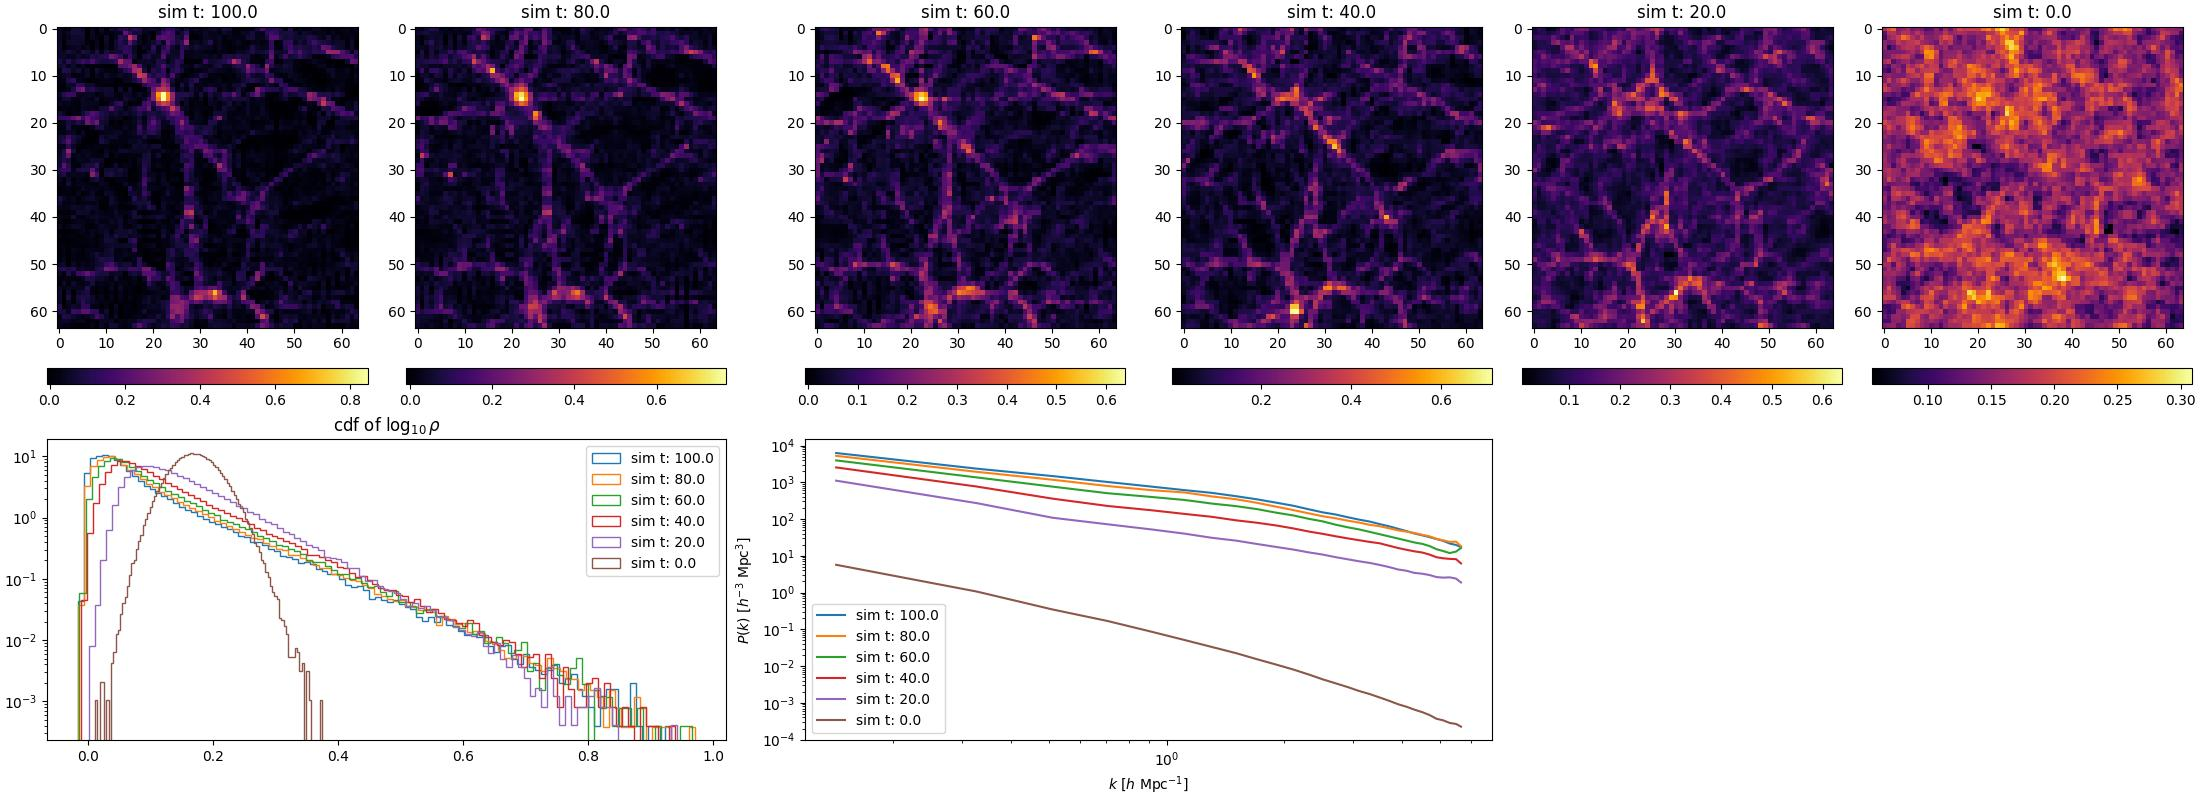
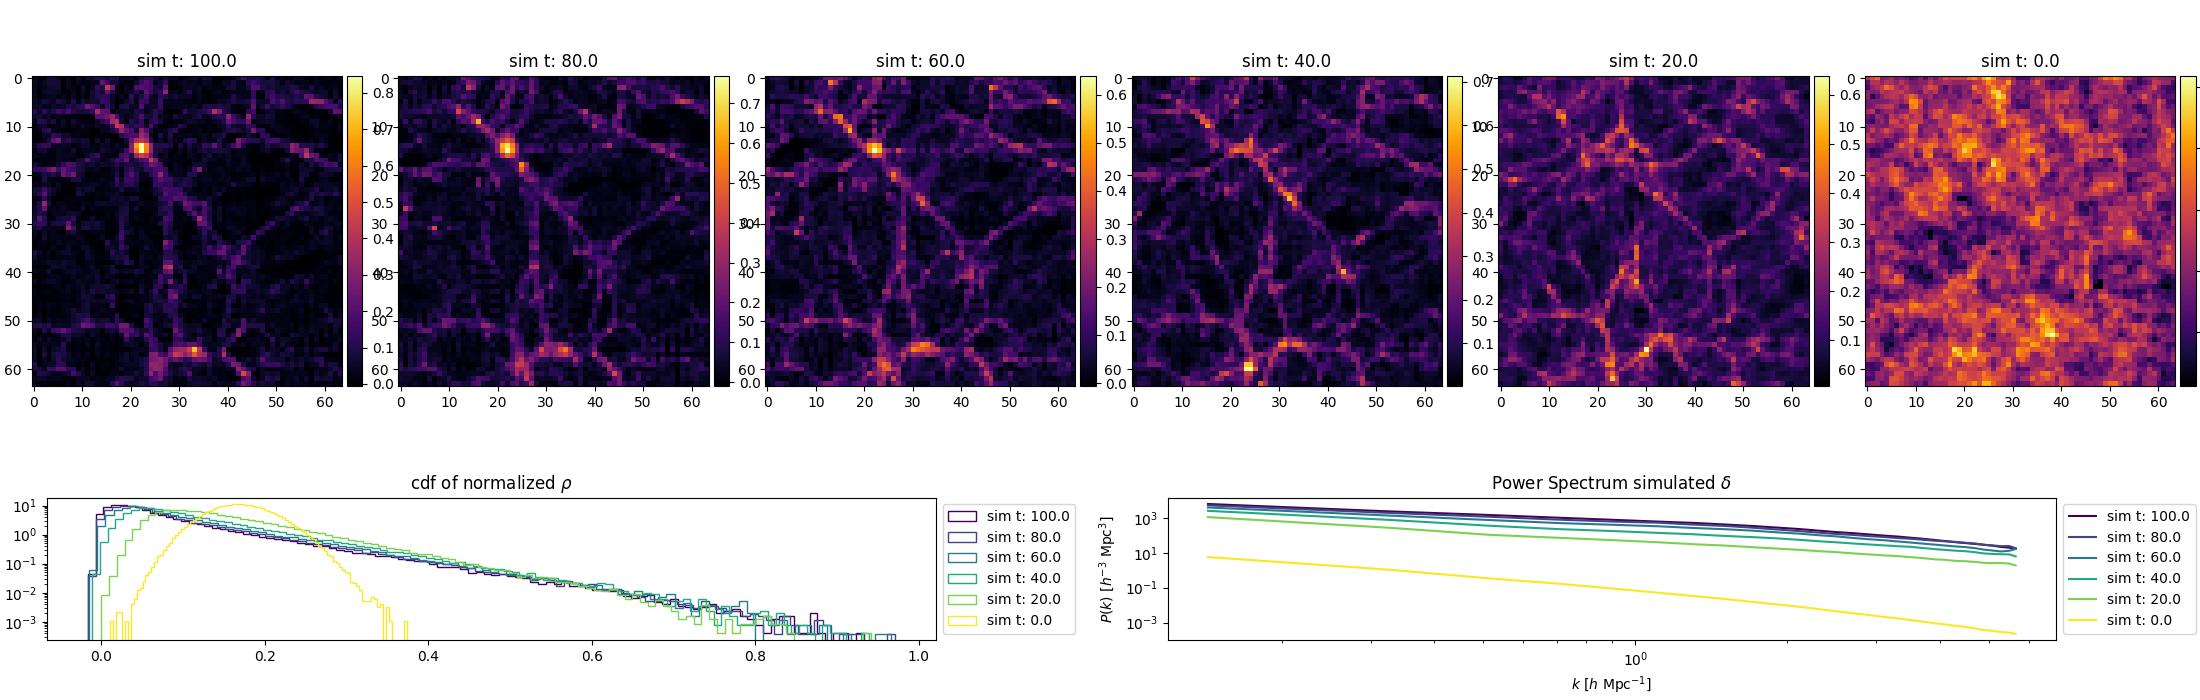
improved plot layouts

diff --git a/src/visualize/sequence.py b/src/visualize/sequence.py
@@ -7,94 +7,42 @@ from mpl_toolkits.axes_grid1 import make_axes_locatable
 from powerbox import PowerBox, get_power
 from data import normalize_inv
 from cosmos import compute_overdensity
+from matplotlib.cm import get_cmap
 
-def sequence_examine(
+def sequence(
         ouput_file : str,
         config : Config,
         sequence : jax.Array,
+        sequence_prediction : jax.Array | None,
         timeline : jax.Array,
         attributes : jax.Array):
     
     frames = sequence.shape[0]
     grid_size = sequence.shape[2]
 
-    # transform to shape for matplotlib
-    sequence = jnp.reshape(
-        sequence, (frames, grid_size, grid_size, grid_size, 1))
-
-
-    fig = plt.figure(figsize=(4+3*frames, 8), layout="constrained")
-    spec = fig.add_gridspec(2, frames)
-
-    ax_cdf = fig.add_subplot(spec[1, 0:2])
-    ax_power = fig.add_subplot(spec[1, 2:4])
-
-    for frame in range(frames):
-
-        min = attributes[frame, 0]
-        max = attributes[frame, 1]
-
-        min = jax.device_put(min, device=jax.devices("gpu")[0])
-        max = jax.device_put(max, device=jax.devices("gpu")[0])
-
-        rho_normalized = sequence[frame]
-        rho = normalize_inv(rho_normalized, min, max)
-
-        ax_seq = fig.add_subplot(spec[0, frame])
-        ax_seq.set_title(f"sim t: {timeline[frame]}")
-
-        im_seq = ax_seq.imshow(rho_normalized[grid_size // 2, : , :], cmap='inferno')
-        fig.colorbar(im_seq, ax=ax_seq, orientation='horizontal', location='bottom')
-
-        ax_cdf.hist(rho_normalized.flatten(), 100, density=True, log=True, histtype="step",
-                               cumulative=False, label=f"sim t: {timeline[frame]}")
-        
-        delta, mean = compute_overdensity(rho)
-
-        print(min)
-        print(max)
-        
-        p,k = get_power(delta[:, :, :, 0], config.box_size)
-        print(p)
-        print(k)
-        ax_power.plot(k, p, label=f"sim t: {timeline[frame]}")
-
-    ax_power.set_yscale('log')
-    ax_power.set_xscale('log')
-    ax_power.legend()
-    ax_power.set_xlabel(r'$k$ [$h \ \mathrm{Mpc}^{-1}$]')
-    ax_power.set_ylabel(r'$P(k)$ [$h^{-3} \ \mathrm{Mpc}^3$]')
-
-    ax_cdf.set_title(r'cdf of $\log_{10} \rho$')
-    # ax_cdf_rho.set_title(r'cdf of $\rho$')
-
-    ax_cdf.legend()
-    # ax_cdf.set_xlim(0, 1)
-    
-    plt.savefig(ouput_file)
-
-def sequence_examine_prediction(
-        ouput_file : str,
-        config : Config,
-        sequence : jax.Array,
-        sequence_prediction : jax.Array,
-        timeline : jax.Array,
-        attributes : jax.Array):
-    
-    frames = sequence.shape[0]
-    grid_size = sequence.shape[2]
+    pred = sequence_prediction is not None
 
     # transform to shape for matplotlib
     sequence = jnp.reshape(
         sequence, (frames, grid_size, grid_size, grid_size, 1))
-    sequence_prediction = jnp.reshape(
-        sequence_prediction, (frames-1, grid_size, grid_size, grid_size, 1))
+    if pred:
+        sequence_prediction = jnp.reshape(
+            sequence_prediction, (frames-1, grid_size, grid_size, grid_size, 1))
+    
+    fig = plt.figure(layout='constrained', figsize=(4+3*frames, 10 if pred else 7))
+    subfigs = fig.subfigures(2, 1, wspace=0.07, height_ratios=[2, 1])
 
-    fig = plt.figure(figsize=(4+3*frames, 8), layout="constrained")
-    spec = fig.add_gridspec(3, frames)
+    spec_sequence = subfigs[0].add_gridspec(2 if pred else 1, frames)
+    spec_stats = subfigs[1].add_gridspec(1, 4 if pred else 2)
 
-    ax_cdf = fig.add_subplot(spec[2, 0])
-    ax_power = fig.add_subplot(spec[2, 1])
+    ax_cdf = fig.add_subplot(spec_stats[0])
+    ax_power = fig.add_subplot(spec_stats[2 if pred else 1])
+    if pred:
+        ax_cdf_pred = fig.add_subplot(spec_stats[1])
+        ax_power_pred = fig.add_subplot(spec_stats[3])
+
+    cmap = get_cmap('viridis') 
+    colors = cmap(jnp.linspace(0, 1, frames))
 
     for frame in range(frames):
 
@@ -108,44 +56,81 @@ def sequence_examine_prediction(
         rho = normalize_inv(rho_normalized, min, max)
         delta, mean = compute_overdensity(rho)
 
-        ax_seq = fig.add_subplot(spec[0, frame])
+        ax_seq = fig.add_subplot(spec_sequence[0, frame])
         ax_seq.set_title(f"sim t: {timeline[frame]}")
 
         im_seq = ax_seq.imshow(rho_normalized[grid_size // 2, : , :], cmap='inferno')
-        fig.colorbar(im_seq, ax=ax_seq, orientation='horizontal', location='bottom')
+        divider = make_axes_locatable(ax_seq)
+        cax = divider.append_axes('right', size='5%', pad=0.05)
+        fig.colorbar(im_seq, cax=cax, orientation='vertical')
 
-        if frame < frames-1:
+        if pred and frame < frames-1:
             rho_pred_normalized = sequence_prediction[frame]
             rho_pred = normalize_inv(rho_pred_normalized, min, max)
             delta_pred, mean_pred = compute_overdensity(rho_pred)
 
-            ax_seq = fig.add_subplot(spec[1, frame+1])
+            ax_seq = fig.add_subplot(spec_sequence[1, frame+1])
             ax_seq.set_title(f"pred t: {timeline[frame+1]}")
 
             im_seq = ax_seq.imshow(rho_pred_normalized[grid_size // 2, : , :], cmap='inferno')
-            fig.colorbar(im_seq, ax=ax_seq, orientation='horizontal', location='bottom')
+            divider = make_axes_locatable(ax_seq)
+            cax = divider.append_axes('right', size='5%', pad=0.05)
+            fig.colorbar(im_seq, cax=cax, orientation='vertical')
 
-            ax_cdf.hist(rho_pred_normalized.flatten(), 100, density=True, log=True, histtype="step",
-                               cumulative=False, label=f"pred t: {timeline[frame+1]}")
+            ax_cdf_pred.hist(
+                rho_pred_normalized.flatten(),
+                100, 
+                density=True, 
+                log=True, 
+                histtype="step",
+                cumulative=False, 
+                label=f"pred t: {timeline[frame+1]}", 
+                color=colors[frame+1])
+            
             p,k = get_power(delta_pred[:, :, :, 0], config.box_size)
-            ax_power.plot(k, p, label=f"pred t: {timeline[frame+1]}")
+            ax_power_pred.plot(
+                k, p, 
+                label=f"pred t: {timeline[frame+1]}",  
+                color=colors[frame+1])
 
-
-        ax_cdf.hist(rho_normalized.flatten(), 100, density=True, log=True, histtype="step",
-                               cumulative=False, label=f"sim t: {timeline[frame]}")
+        ax_cdf.hist(
+            rho_normalized.flatten(), 
+            100, 
+            density=True, 
+            log=True, 
+            histtype="step",
+            cumulative=False, 
+            label=f"sim t: {timeline[frame]}", 
+            color=colors[frame])
+        
         p,k = get_power(delta[:, :, :, 0], config.box_size)
-        ax_power.plot(k, p, label=f"sim t: {timeline[frame]}")
+        ax_power.plot(
+            k, 
+            p, 
+            label=f"sim t: {timeline[frame]}", 
+            color=colors[frame])
 
     ax_power.set_yscale('log')
     ax_power.set_xscale('log')
-    ax_power.legend()
+    ax_power.legend(loc='center left', bbox_to_anchor=(1, 0.5))
+    ax_power.set_title(r'Power Spectrum simulated $\delta$')
     ax_power.set_xlabel(r'$k$ [$h \ \mathrm{Mpc}^{-1}$]')
     ax_power.set_ylabel(r'$P(k)$ [$h^{-3} \ \mathrm{Mpc}^3$]')
 
-    ax_cdf.set_title(r'cdf of $\log_{10} \rho$')
-    # ax_cdf_rho.set_title(r'cdf of $\rho$')
+    if pred:
+        ax_power_pred.set_yscale('log')
+        ax_power_pred.set_xscale('log')
+        ax_power_pred.legend(loc='center left', bbox_to_anchor=(1, 0.5))
+        ax_power_pred.set_title(r'Power Spectrum predicted $\delta$')
+        ax_power_pred.set_xlabel(r'$k$ [$h \ \mathrm{Mpc}^{-1}$]')
+        ax_power_pred.set_ylabel(r'$P(k)$ [$h^{-3} \ \mathrm{Mpc}^3$]')
 
-    ax_cdf.legend()
-    # ax_cdf.set_xlim(0, 1)
-    
+        ax_cdf_pred.set_title(r'cdf of normalized predicted $\rho$')
+        ax_cdf_pred.legend(loc='center left', bbox_to_anchor=(1, 0.5))
+
+    ax_cdf.set_title(r'cdf of normalized $\rho$')
+    ax_cdf.legend(loc='center left', bbox_to_anchor=(1, 0.5))
+
+    # subfigs[0].tight_layout(pad=5.0, w_pad=2.0, h_pad=2.0)
+
     plt.savefig(ouput_file)

diff --git a/src/evaluate.py b/src/evaluate.py
@@ -39,14 +39,14 @@ def main(argv) -> None:
     # data_iterator = DALIGenericIterator(data_pipeline, ["data", "step", "mean"])
 
     sample = next(data_iterator)
-    sequence = jax.device_put(sample['data'], jax.devices('gpu')[0])[0]
+    sequence = jax.device_put(sample['data'], jax.devices('gpu')[0])[1]
     pred = model(sequence, False)
     pred_sequential = model(sequence, True)
 
     timeline = sample["step"][0]
     attributes = sample["attributes"][0]
 
-    visualize.sequence_examine_prediction(
+    visualize.sequence(
         "img/prediction_stepwise.jpg", 
         sequence = sequence, 
         config = config,
@@ -54,7 +54,7 @@ def main(argv) -> None:
         timeline = timeline,
         attributes = attributes)
 
-    visualize.sequence_examine_prediction(
+    visualize.sequence(
         "img/prediction_sequential.jpg", 
         sequence = sequence, 
         config = config,

diff --git a/src/nn/trainer.py b/src/nn/trainer.py
@@ -18,22 +18,13 @@ def baseline_loss(
         sequence : jax.Array):
     
     """
-    Prediction and MSE error. 
+    Prediction and MSE error.   
 
     shape of sequence:
     [Batch, Frames, Channels, Depth, Height, Width]
     """
     a = sequence[:, :-1]
-    # a_mean = a.mean()
-    # a_var = a.var()
     b = sequence[:, 1:]
-    # b_mean = b.mean()
-    # b_var= b.var()
-
-    # normalize a
-    # a = (a - a_mean) / a_var
-    # fit it to b distribution
-    # a = (a * b_var) + b_mean
 
     return mse(b, a)
 

diff --git a/src/examine.py b/src/examine.py
@@ -37,9 +37,10 @@ def main(argv) -> None:
     timeline = sample["step"][0]
     attributes = sample["attributes"][0]
 
-    visualize.sequence_examine(
+    visualize.sequence(
         "img/data_distr.jpg", 
         sequence = sequence, 
+        sequence_prediction=None,
         config = config,
         timeline = timeline,
         attributes = attributes)
